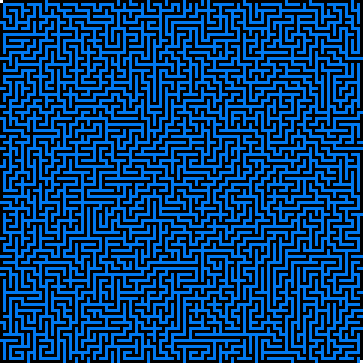
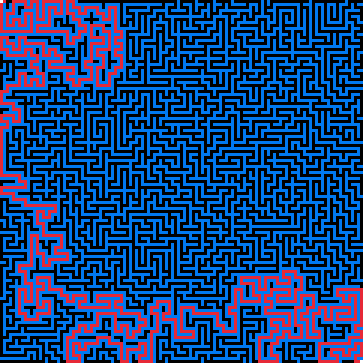
Add gitignore

diff --git a/program.cpp b/program.cpp
@@ -67,6 +67,7 @@ bool isUsable(u8* field, Point p) {
     if(field[p.x + p.y * W] != 1) return 0;
     return 1;
 }
+
 void beatMaze(u8* field) {
     Point nextPos;
     std::stack<Point> history;
@@ -112,7 +113,7 @@ void image_create(u8* data, int w, int h) {
 
 void drawSquare(u8* output, Point pos, Color col) {
     for(int i =0; i < Scale; i++)
-        for(int j =0; j < Scale; j++){
+        for(int j =0; j < Scale; j++) {
             output[3 * (Scale * pos.x + Scale * pos.y * W * Scale + i * W * Scale + j) + 0] = col.r;
             output[3 * (Scale * pos.x + Scale * pos.y * W * Scale + i * W * Scale + j) + 1] = col.g;
             output[3 * (Scale * pos.x + Scale * pos.y * W * Scale + i * W * Scale + j) + 2] = col.b;
@@ -141,7 +142,7 @@ int main() {
     std::cout << "Generating...\n";
     createMaze(field);
     std::cout << "Beating...\n";
-//    beatMaze(field);
+    beatMaze(field);
     std::cout << "Exporting...\n";
     createImage(field);
     std::cout << "Done!\n";
